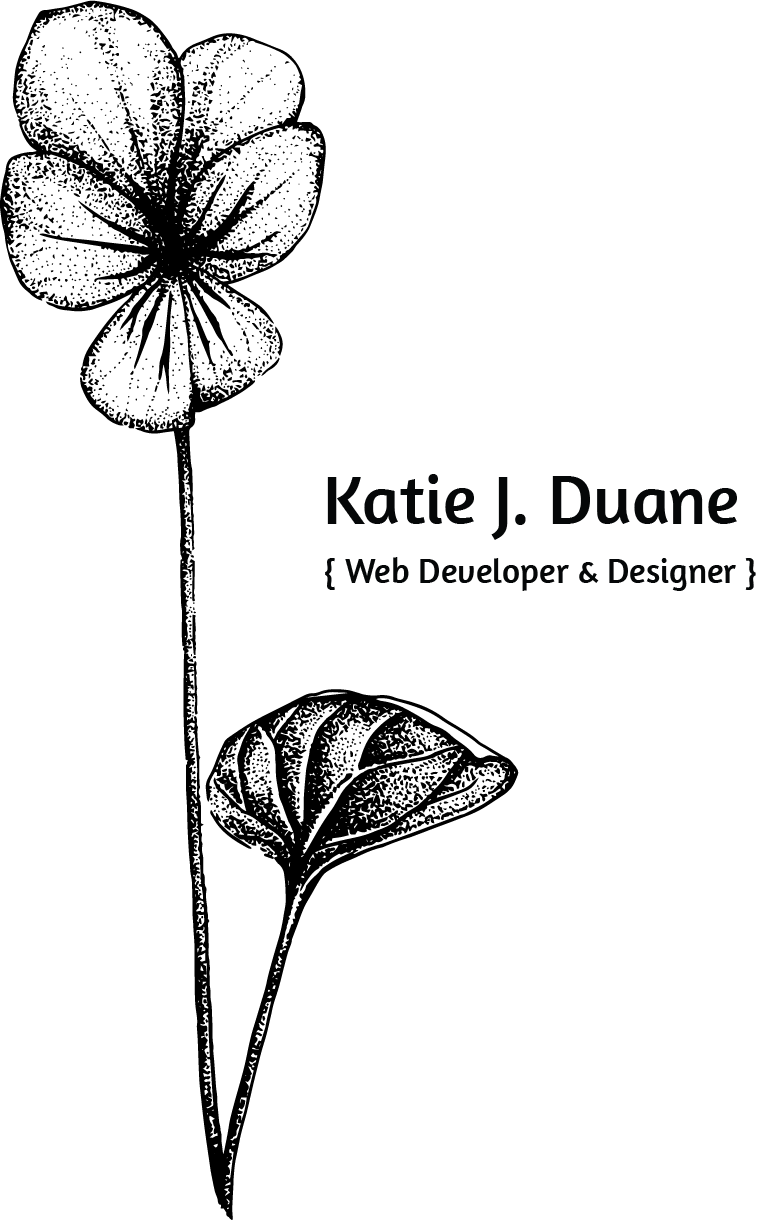
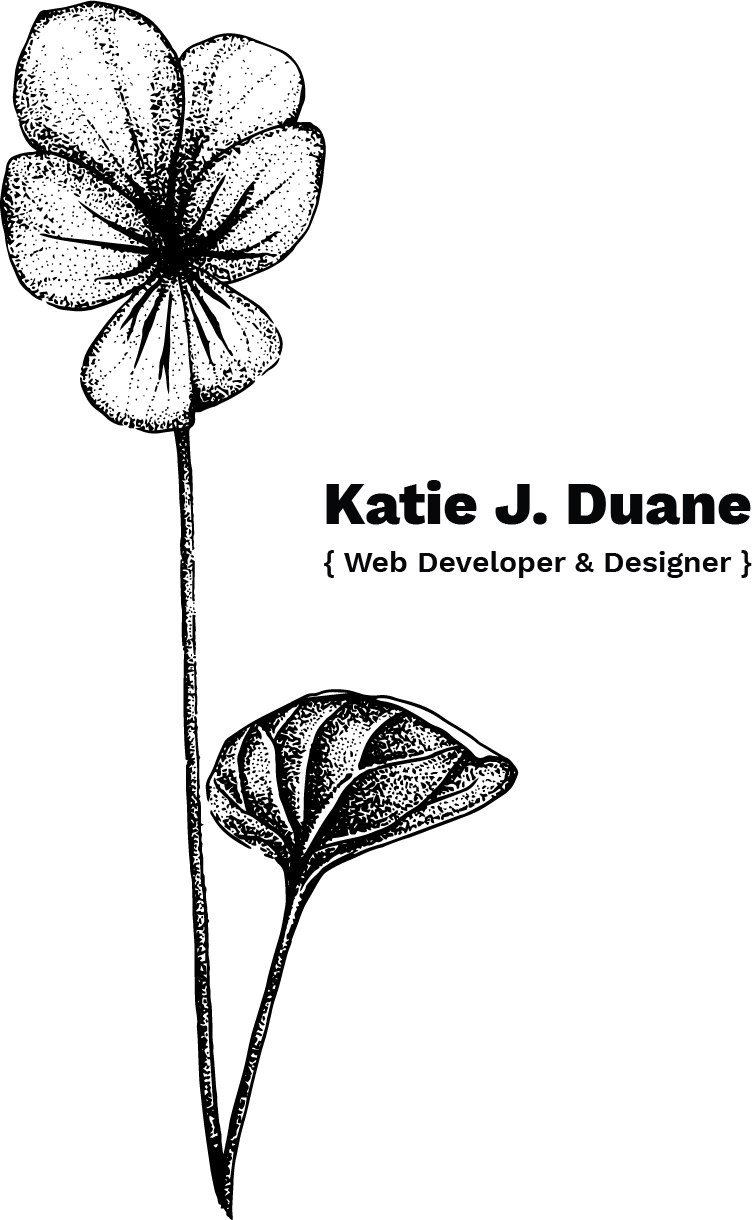
minor css updates

Changed region(s): [[0.0305, 0.0, 0.7025, 1.0], [0.4276, 0.3738, 1.0, 0.4984]]

diff --git a/styles.css b/styles.css
@@ -67,7 +67,8 @@ nav {
 
 .mobile-menu-button {
     /* display: none; */
-    font-family: 'Amaranth', sans-serif;
+    font-family: 'Work Sans', sans-serif;
+    font-weight: 500;
     font-size: 13pt;
     padding: 0.75rem 1rem;
     margin-bottom: 0.75rem;  
@@ -128,7 +129,7 @@ nav {
 }
 
 .section-header {
-    font-family: 'Amaranth', sans-serif;
+    font-family: 'Work Sans', sans-serif;
     font-size: 18pt;
     text-align: center;
     color: rgb(23, 23, 23); 
@@ -136,7 +137,7 @@ nav {
 }
 
 .sub-header {
-    font-family: 'Amaranth', sans-serif;
+    font-family: 'Work Sans', sans-serif;
     font-size: 16pt;
     text-align: center;
     color: rgb(23, 23, 23); 
@@ -152,7 +153,7 @@ footer {
 .thankyou {
     margin: 0rem;
     padding: 0.5rem;
-    font-family: 'Amaranth', sans-serif;
+    font-family: 'Work Sans', sans-serif;
 }
 
 .violet-small {
@@ -175,7 +176,7 @@ footer {
 
 .about-heading {
     text-align: center;
-    font-family: 'Amaranth', sans-serif;
+    font-family: 'Work Sans', sans-serif;
 }
 
 .about-text {
@@ -204,7 +205,8 @@ footer {
 }
 
 .title {
-    font-family: 'Amaranth', sans-serif;
+    font-family: 'Work Sans', sans-serif;
+    font-weight: 500;
     font-size: 16pt;
     color: rgb(55,55,55); 
     margin: 0.25rem 0;
@@ -217,14 +219,14 @@ footer {
 
 .link-box {
     text-align: center;
-    font-family: 'Alegreya Sans', sans-serif;
+    font-family: 'Work Sans', sans-serif;
     margin: 1rem;
 }
 
 .link-box a {
     background-color: rgb(131, 98, 199);
     text-decoration: none;
-    color: rgb(238, 238, 238); 
+    color: rgb(238, 238,238); 
     margin-right: 0.5rem;
     padding: 0.5rem 1rem;
 }
@@ -265,7 +267,7 @@ footer {
 
 /* skills page -------------------------------------------------------> */
 .skills-box {
-    border: 2px dashed rgb(213, 80, 57);
+    border: 2px dashed rgba(213, 80, 57, 0.76);
     width: 85%;
     margin: 0 auto 2rem;
     padding: 0.5rem;
@@ -422,13 +424,15 @@ footer {
         height: 100%;
         list-style: none;
         margin: 0;
-        font-family: 'Amaranth', sans-serif;
+        font-family: 'Work Sans', sans-serif;
+        font-weight: 600;
         color: rgb(238, 238, 238);
     }
 
     .menu-button {
         height: 100%;
-        font-family: 'Amaranth', sans-serif;
+        font-family: 'Work Sans', sans-serif;
+        font-weight: 600;
         padding: 0.95rem 1rem;
         margin: 0;
         box-sizing: border-box;
@@ -682,6 +686,7 @@ footer {
 
     .link-box {
         margin: 1rem 1rem;
+        font-family: 'Work Sans', sans-serif;
     }
 
     .link-box a{

diff --git a/index.html b/index.html
@@ -7,7 +7,7 @@
     <meta name="viewport" content="width=device-width, initial-scale=1.0">
     <link rel="icon" href="https://emojipedia-us.s3.dualstack.us-west-1.amazonaws.com/thumbs/120/apple/198/face-with-party-horn-and-party-hat_1f973.png">
     <link rel="stylesheet" href="https://cdnjs.cloudflare.com/ajax/libs/normalize/8.0.0/normalize.min.css">
-    <link href="https://fonts.googleapis.com/css?family=Alegreya+Sans|Amaranth|B612|Open+Sans"
+    <link href="https://fonts.googleapis.com/css?family=Alegreya+Sans|Amaranth|Work+Sans:400,500,600&display=swap"
         rel="stylesheet">
     <link rel="stylesheet" href="https://use.fontawesome.com/releases/v5.5.0/css/all.css"
         integrity="sha384-B4dIYHKNBt8Bc12p+WXckhzcICo0wtJAoU8YZTY5qE0Id1GSseTk6S+L3BlXeVIU" crossorigin="anonymous">

diff --git a/adulting/index.html b/adulting/index.html
@@ -7,7 +7,7 @@
     <meta name="viewport" content="width=device-width, initial-scale=1.0">
     <link rel="stylesheet" href="https://cdnjs.cloudflare.com/ajax/libs/normalize/8.0.0/normalize.min.css">
     <link
-        href="https://fonts.googleapis.com/css?family=Arvo|Crimson+Text|Enriqueta|Josefin+Sans|Muli|Rokkitt|Alegreya+Sans|Amaranth|B612|Cherry+Swash|Nova+Oval|Quattrocento+Sans|Rosario|Sirin+Stencil"
+        href="https://fonts.googleapis.com/css?family=Alegreya+Sans|Amaranth|Work+Sans:400,500,600&display=swap"
         rel="stylesheet">
     <link rel="stylesheet" href="https://use.fontawesome.com/releases/v5.5.0/css/all.css"
         integrity="sha384-B4dIYHKNBt8Bc12p+WXckhzcICo0wtJAoU8YZTY5qE0Id1GSseTk6S+L3BlXeVIU" crossorigin="anonymous">

diff --git a/adulting/adulting.css b/adulting/adulting.css
@@ -1,10 +1,13 @@
+#home-button{
+    font-weight: 600;
+}
+
 .py-content {
     margin: 0 auto;
     padding: 0.5rem 0rem;
     width: 90%;
     height: 100vh;
-    background-color: papayawhip;
-
+    background-color:rgb(238, 238, 238);
 }
 
 .video-wrapper {
@@ -21,7 +24,7 @@
 }
 
 p {
-    font-family: 'Amaranth', sans-serif;
+    font-family: 'Work Sans', sans-serif;
     font-size: 16pt;
     color: rgb(23, 23, 23);
     text-align: center;
